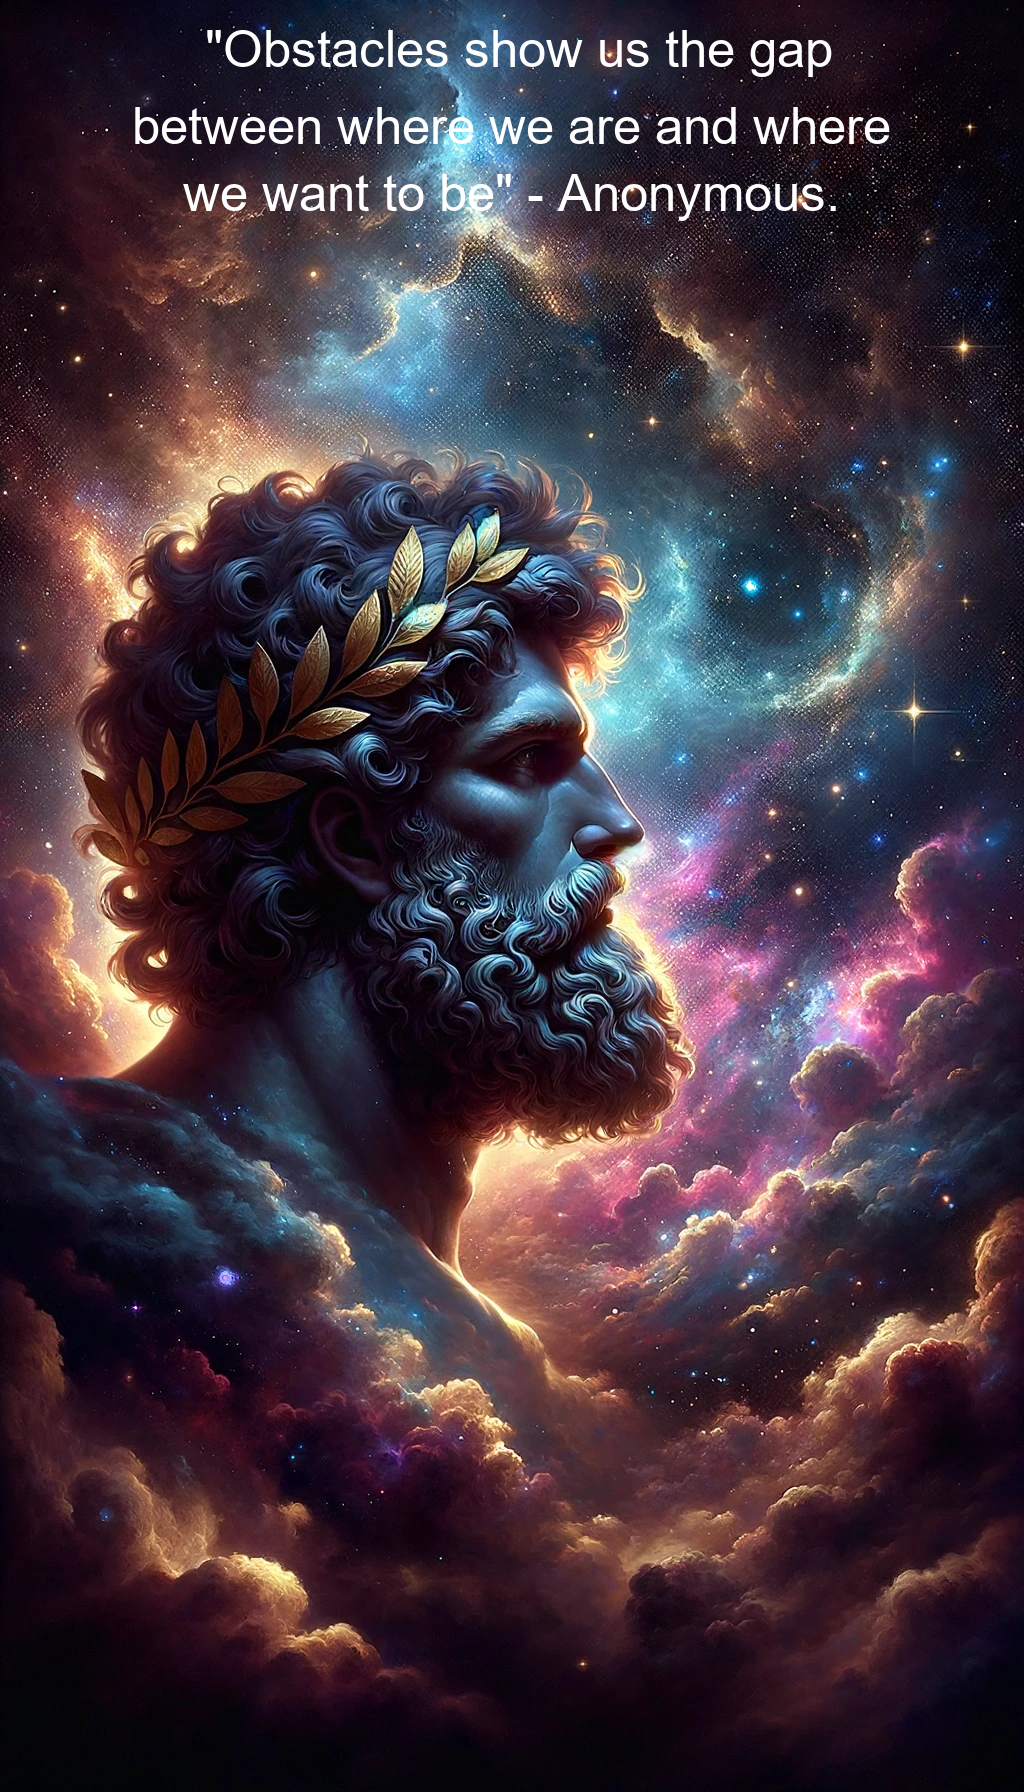
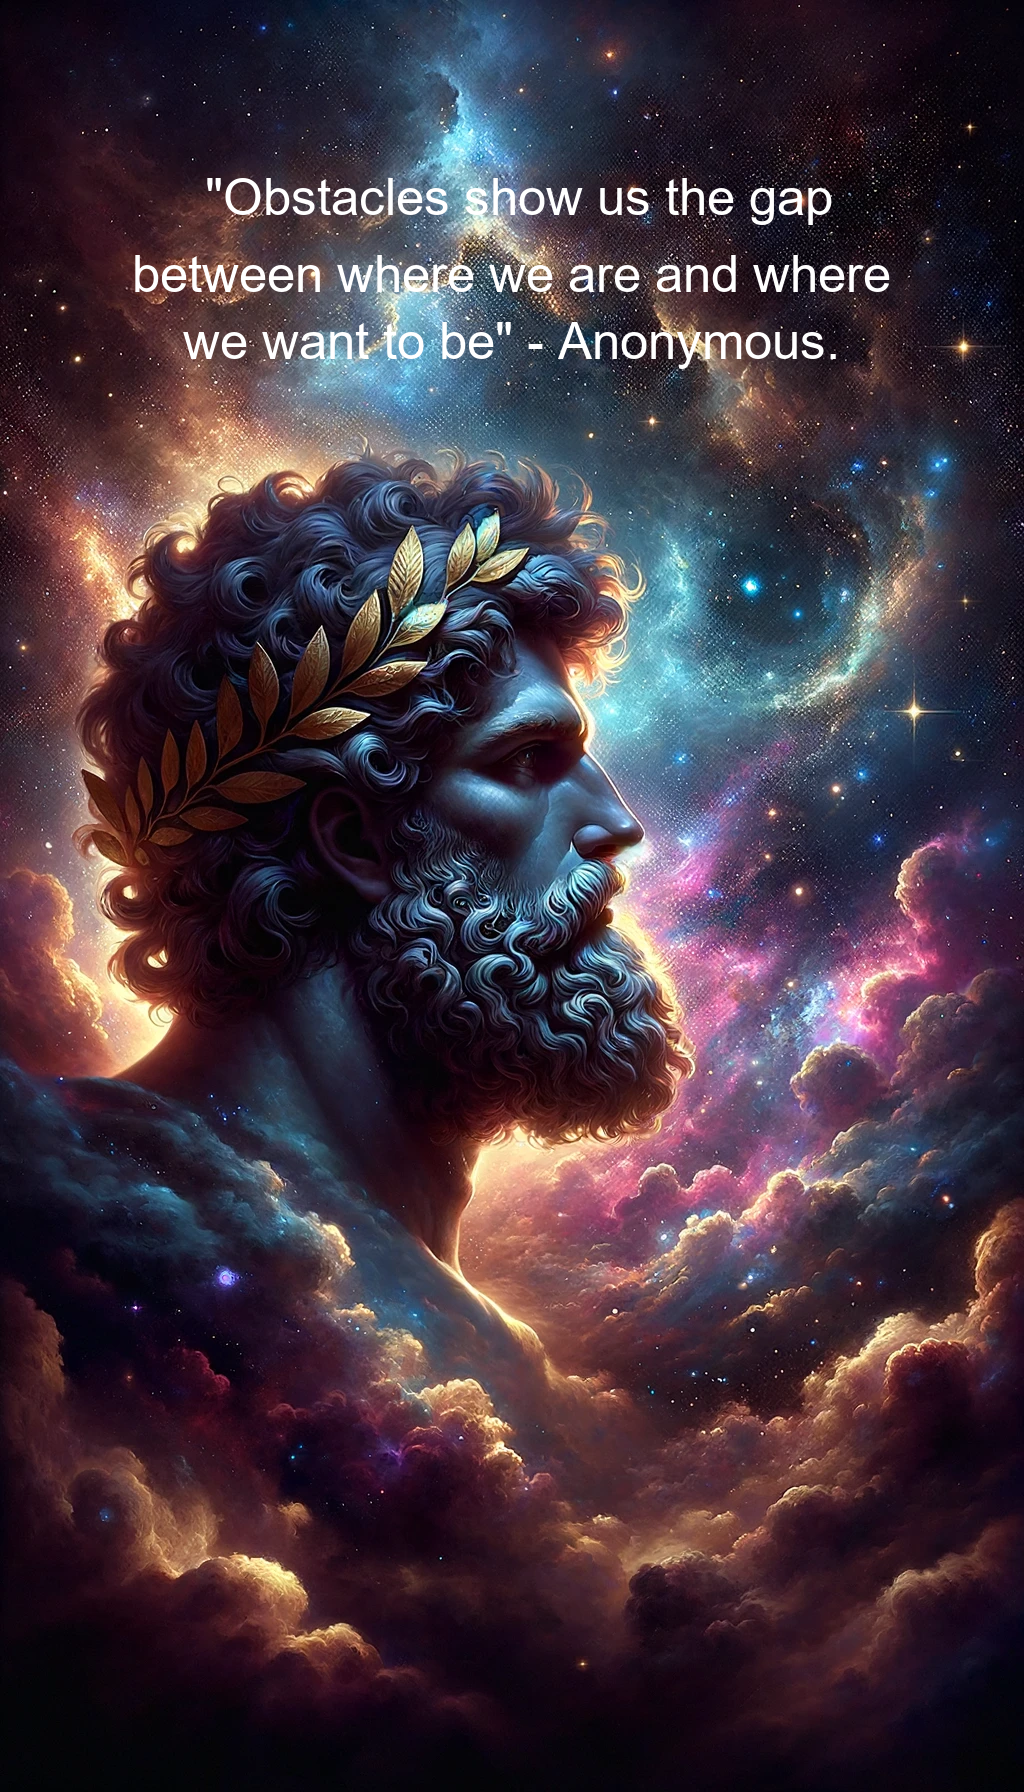
adding vertical position to text ot image

diff --git a/src/images/image_utils.py b/src/images/image_utils.py
@@ -6,7 +6,27 @@ import textwrap
 # Image.MAX_IMAGE_PIXELS = None
 
 
-def add_text_to_image(image_path, save_path, text, font_path='arial.ttf', color="white", relative_font_size=0.05):
+def add_text_to_image(
+    image_path,
+    save_path,
+    text,
+    font_path='arial.ttf',
+    color="white",
+    relative_font_size=0.05,
+    vertical_position=0.15
+):
+    """
+    Add text to an image with specified font and color.
+
+    Args:
+    - image_path: Path to the input image.
+    - save_path: Path where the modified image will be saved.
+    - text: Text to add to the image.
+    - font_path: Path to the .ttf font file to use.
+    - color: Color of the text.
+    - relative_font_size: Font size relative to the image width.
+    - vertical_position: Vertical position of the text as a fraction of image height (0.5 for middle).
+    """
     # Load the image
     image = Image.open(image_path)
     draw = ImageDraw.Draw(image)
@@ -15,8 +35,8 @@ def add_text_to_image(image_path, save_path, text, font_path='arial.ttf', color=
     # Calculate font size relative to the image width
     font_size = int(image_width * relative_font_size)
 
-    # Define the rectangle area for text: top 30% of the image
-    rect_height = int(image_height * 0.3)
+    # Define the rectangle area for text: top 40% of the image
+    rect_height = int(image_height * 0.4)
     padding = 20  # Padding inside the rectangle for text
 
     # Load or set the default font
@@ -38,8 +58,7 @@ def add_text_to_image(image_path, save_path, text, font_path='arial.ttf', color=
     lines = wrapped_text.split('\n')
     text_height = sum([font.getsize(line)[1]
                       for line in lines]) + padding * (len(lines) - 1)
-    y_position = padding if rect_height > text_height else (
-        rect_height - text_height) / 2
+    y_position = image_height * vertical_position - text_height / 2
 
     # Draw the wrapped text
     for line in lines:
